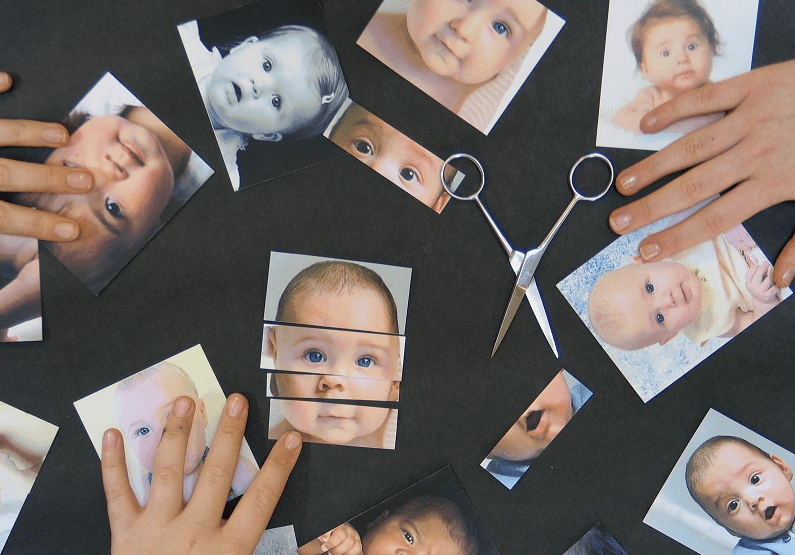
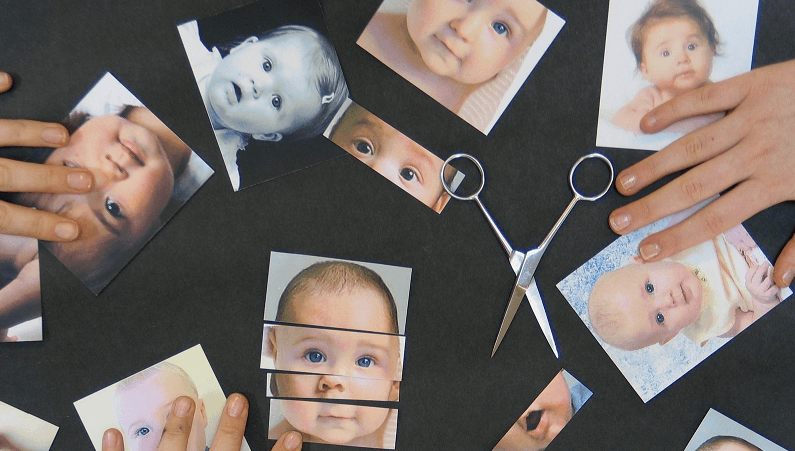
Updated files.

diff --git a/final-project/index.html b/final-project/index.html
@@ -134,19 +134,19 @@
                         and towards anticipating and preventing it.”
                     </p>
                     <div class="phelps">
-                    <blockquote class="twitter-tweet" id="tweet">
-                        <p lang="en" dir="ltr">
-                            Spoiler alert:
-                            <a href="https://twitter.com/MichaelPhelps?ref_src=twsrc%5Etfw">@MichaelPhelps</a> is indeed
-                            built different. <a href="https://t.co/mCkN5RyyAt">pic.twitter.com/mCkN5RyyAt</a>
-                        </p>
-                        &mdash; Nucleus Genomics (@nucleusgenomics)
-                        <a href="https://twitter.com/nucleusgenomics/status/1925315273302638810?ref_src=twsrc%5Etfw"
-                            >May 21, 2025</a
-                        >
-                    </blockquote>
-                    <script async src="https://platform.twitter.com/widgets.js" charset="utf-8"></script>
-                        </div>
+                        <blockquote class="twitter-tweet">
+                            <p lang="en" dir="ltr">
+                                Spoiler alert:
+                                <a href="https://twitter.com/MichaelPhelps?ref_src=twsrc%5Etfw">@MichaelPhelps</a> is
+                                indeed built different. <a href="https://t.co/mCkN5RyyAt">pic.twitter.com/mCkN5RyyAt</a>
+                            </p>
+                            &mdash; Nucleus Genomics (@nucleusgenomics)
+                            <a href="https://twitter.com/nucleusgenomics/status/1925315273302638810?ref_src=twsrc%5Etfw"
+                                >May 21, 2025</a
+                            >
+                        </blockquote>
+                        <script async src="https://platform.twitter.com/widgets.js" charset="utf-8"></script>
+                    </div>
                     <p>
                         In the weeks and months after the VC’s house party, I couldn’t stop thinking about their
                         gene-curated superbaby. How many parents in San Francisco would happily experiment with the
@@ -372,9 +372,10 @@
                     </p>
                     <p>
                         But my reverie lasted only a moment, because the results I received from Nucleus and Orchid were
-                        <em>so</em> different. What was the point of these scores if they varied so much from company to company?
-                        What if the investor and his wife from that Presidio cocktail party had used Nucleus instead of
-                        Orchid to select their embryo? Would they have ended up with a completely different superbaby?
+                        <em>so</em> different. What was the point of these scores if they varied so much from company to
+                        company? What if the investor and his wife from that Presidio cocktail party had used Nucleus
+                        instead of Orchid to select their embryo? Would they have ended up with a completely different
+                        superbaby?
                     </p>
                     <p></p>
                 </div>

diff --git a/final-project/style.css b/final-project/style.css
@@ -62,21 +62,19 @@ pull quote = <div class="pullquote">
         width: 70%;
     }
 
-    #byline a:hover {
+    #byline a,
+    #article a {
         color: #3e9d71;
+        text-decoration: none;
+        font-weight: 650;
     }
 
+    #byline a:hover,
     #article a:hover {
         color: #3e9d71;
-        text-decoration:underline;
+        text-decoration: underline;
     }
 
-    #article a {
-        color:#3e9d71;
-        text-decoration:none;
-        font-weight:750;
-    }
-    
     .caption {
         font-size: 9px;
         margin-top: 2px;
@@ -84,9 +82,6 @@ pull quote = <div class="pullquote">
 
     .phelps {
         width: 100%;
-        text-align: center;
-        align-content: center;
-        justify-content: center;
     }
 
     .subtitle {
@@ -97,10 +92,9 @@ pull quote = <div class="pullquote">
     #chart {
         margin-bottom: 20px;
     }
-    
+
     #superbaby {
-        margin: 0px;
-        padding: 0px;
+        padding: 0;
     }
 }
 
